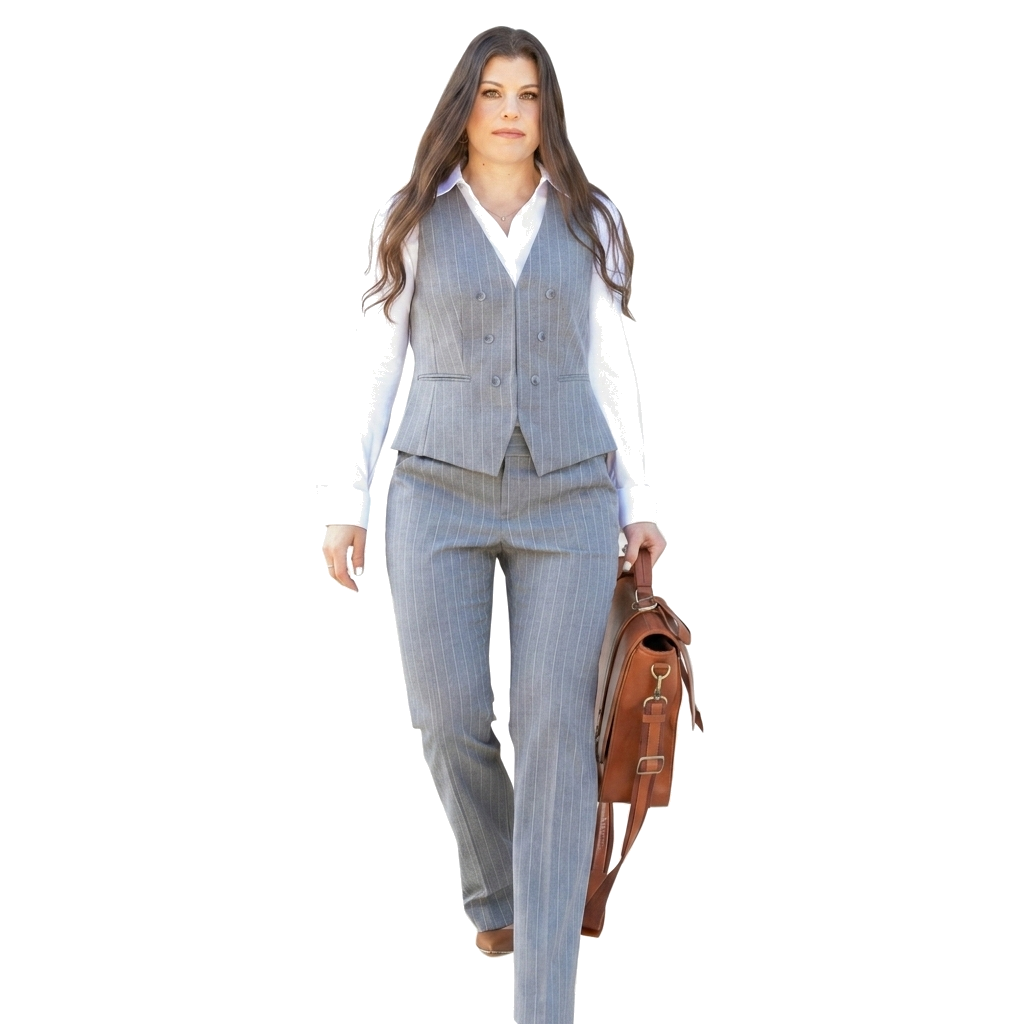
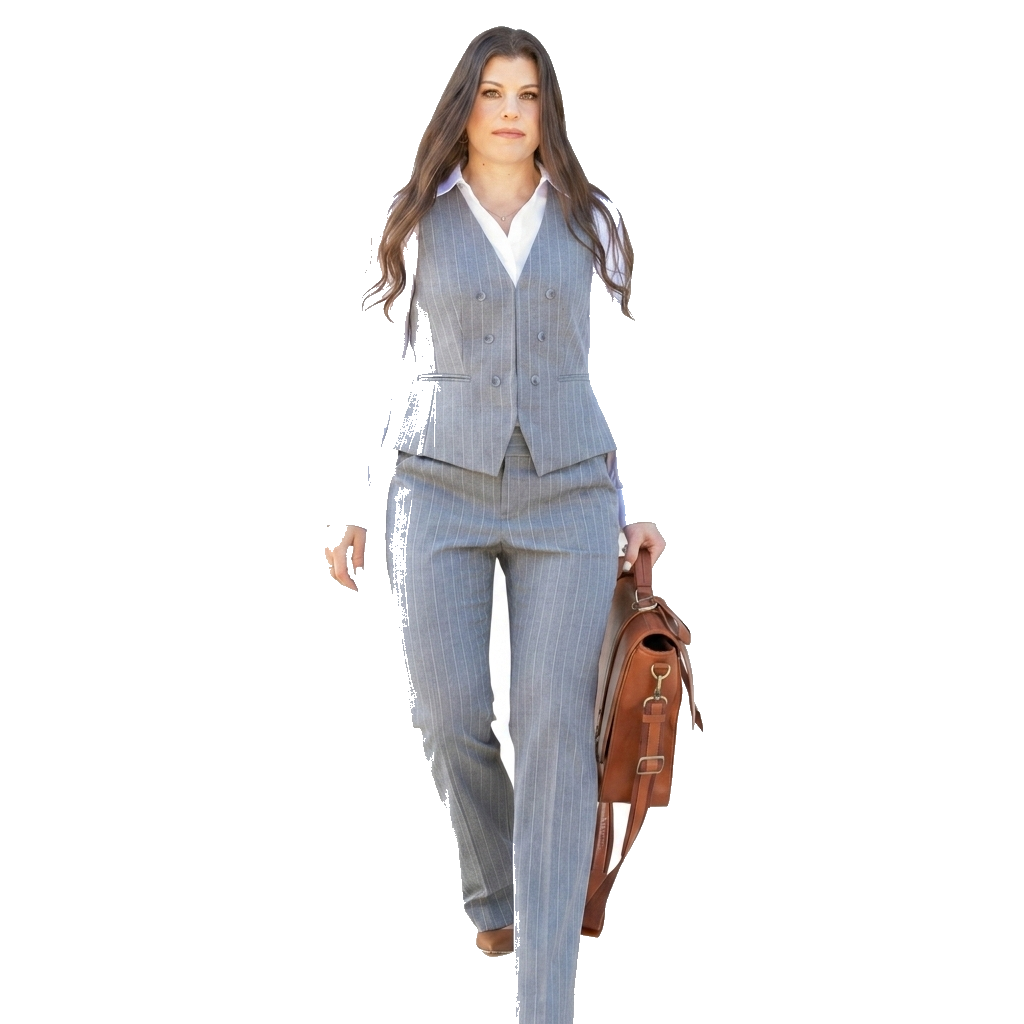
Revert hero section to 2-column gold frame layout with upscaled corporate portrait owner_high_res.png

diff --git a/index.html b/index.html
@@ -3,7 +3,7 @@
 <head>
   <meta charset="UTF-8">
   <meta name="viewport" content="width=device-width, initial-scale=1.0">
-  <title>Dazet Law — Personal Injury & Estate Planning in Covington, LA</title>
+  <title>Dazet Law â€” Personal Injury & Estate Planning in Covington, LA</title>
   <meta name="description" content="Get personal legal representation from attorney Chelsea Dazet. Guidance & protection in Covington, LA. Call 985-249-6475.">
   <link rel="preconnect" href="https://fonts.googleapis.com">
   <link rel="preconnect" href="https://fonts.gstatic.com" crossorigin>
@@ -45,7 +45,7 @@
       <div class="hero-office-img-wrapper">
         <div class="hero-office-border"></div>
         <div class="hero-office-img">
-          <img src="./assets/chelsea_full_body_generated_transparent.png" alt="Chelsea Dazet, Attorney at Law">
+          <img src="./assets/owner_high_res.png" alt="Chelsea Dazet, Attorney at Law">
         </div>
       </div>
       <div class="hero-content">
@@ -281,7 +281,7 @@
             <li><i class="ph ph-phone-call"></i> <a href="tel:985-249-6475">985-249-6475</a></li>
             <li><i class="ph ph-envelope-simple-open"></i> <a href="mailto:chelsea@dazetlaw.com">chelsea@dazetlaw.com</a></li>
             <li><i class="ph ph-map-pin-line"></i> 221 E. Kirkland St., Covington, LA 70433</li>
-            <li><i class="ph ph-clock"></i> Mon–Fri: 9:00am–5:00pm</li>
+            <li><i class="ph ph-clock"></i> Monâ€“Fri: 9:00amâ€“5:00pm</li>
           </ul>
         </div>
         <div class="evaluation-form">

diff --git a/styles.css b/styles.css
@@ -232,27 +232,17 @@ img { max-width: 100%; height: auto; display: block; }
 }
 .hero-office-img {
   width: 100%;
-  height: 480px;
+  height: 380px;
   border-radius: 8px;
   overflow: hidden;
   box-shadow: 0 20px 45px rgba(0,0,0,0.04);
   border: 1px solid rgba(181, 147, 90, 0.15);
-  background: url('./assets/hero_bg_cols.png') center/cover no-repeat;
-  position: relative;
-  display: flex;
-  align-items: flex-end;
-  justify-content: center;
+  background: #fff;
 }
 .hero-office-img img {
-  height: 95%;
-  width: auto;
-  object-fit: contain;
-  filter: drop-shadow(0 15px 30px rgba(0, 0, 0, 0.35));
-  transform-origin: bottom center;
-  transition: transform 0.5s ease;
-}
-.hero-office-img:hover img {
-  transform: scale(1.03);
+  width: 100%;
+  height: 100%;
+  object-fit: cover;
 }
 .hero-office-border {
   position: absolute;
@@ -949,7 +939,5 @@ img { max-width: 100%; height: auto; display: block; }
   .hero h1 {
     font-size: 2rem;
   }
-  .hero-office-img {
-    height: 380px;
-  }
 }
+
